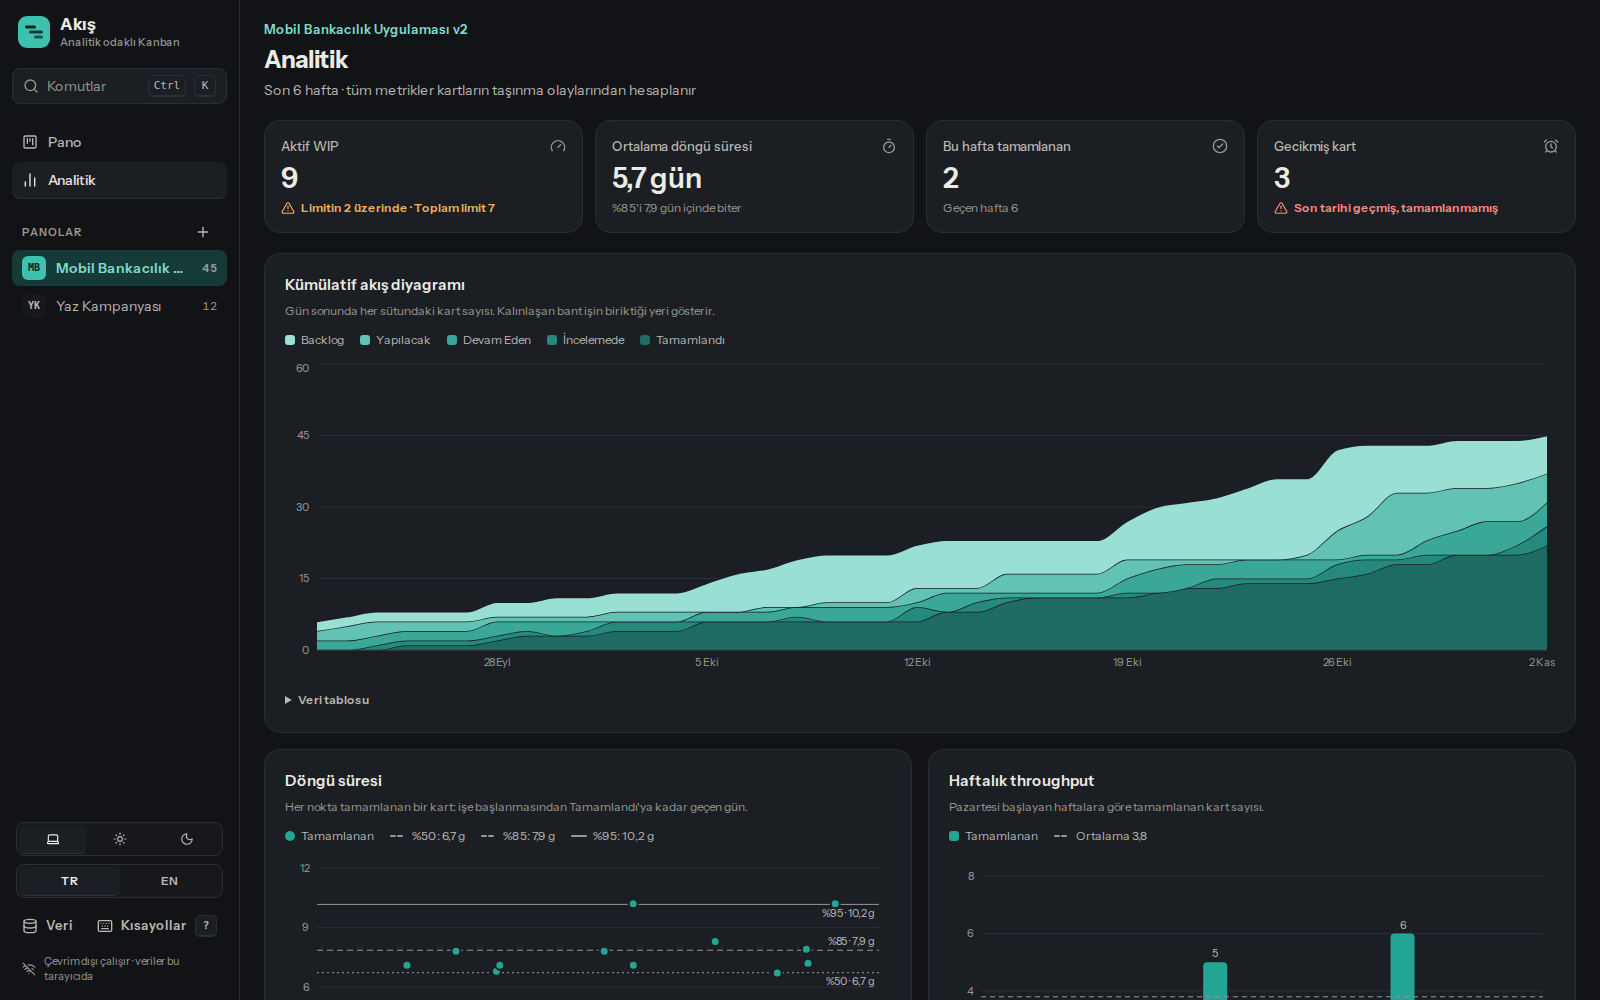
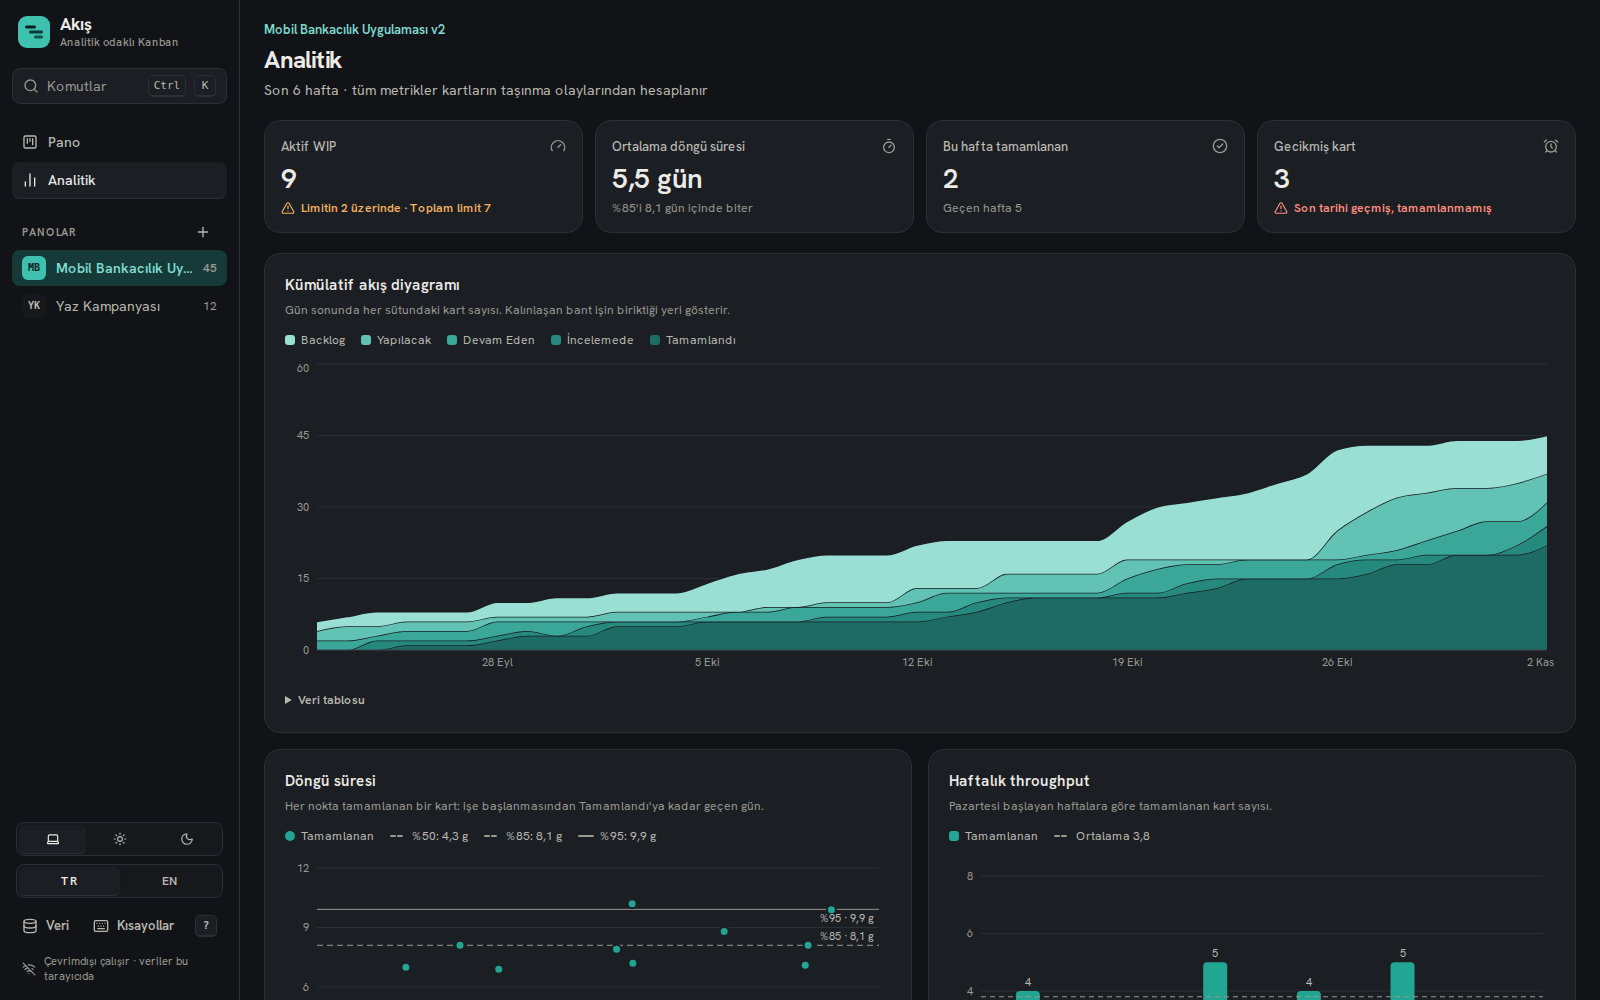
fix: restore word spacing by switching the UI font to Hanken Grotesk
Instrument Sans ships a 200/1000 em space glyph. At the 11-13px UI
sizes that is 2.2-2.6px, which Chrome rounds to 2px at DPR 1, and the
negative tracking on headings narrowed it further, so words visibly ran
together ("23Ekim2026tarihinde", "28Eyl", "Sprint 14·26 Eki").
Measured in the browser and confirmed in the font's hmtx table; the
cv11/ss01 features and the subsets were not the cause.

- Switch next/font to Hanken Grotesk (0.26 em space, latin + latin-ext
  for Turkish) and drop the Instrument-specific font features
- Soften heading tracking to -0.01em; no tracking on small text
- Make the sprint chip separator spacing explicit
- Render chart data tables only when they are opened
- Regenerate screenshots; refresh Lighthouse numbers in the README

diff --git a/src/components/board/board-view.tsx b/src/components/board/board-view.tsx
@@ -65,7 +65,7 @@ function BoardHeader({ board, filters, now }: { board: Board; filters: ReturnTyp
     <header className="flex flex-col gap-3 border-b border-line px-4 pt-4 pb-3 lg:px-5">
       <div className="flex flex-wrap items-center gap-x-3 gap-y-2">
         <div className="flex min-w-0 items-center gap-2">
-          <h1 className="truncate text-lg font-bold tracking-tight text-ink sm:text-xl" data-testid="board-title">
+          <h1 className="truncate text-lg font-bold tracking-[-0.01em] text-ink sm:text-xl" data-testid="board-title">
             {board.name}
           </h1>
           <BoardMenu board={board} />
@@ -79,8 +79,7 @@ function BoardHeader({ board, filters, now }: { board: Board; filters: ReturnTyp
             })}
             {daysLeft !== null ? (
               <span className="font-semibold text-ink">
-                ·{" "}
-                {daysLeft > 0 ? t("board.sprintLeft", { count: daysLeft }) : daysLeft === 0 ? t("board.sprintLastDay") : t("board.sprintEnded")}
+                {`· ${daysLeft > 0 ? t("board.sprintLeft", { count: daysLeft }) : daysLeft === 0 ? t("board.sprintLastDay") : t("board.sprintEnded")}`}
               </span>
             ) : null}
           </span>

diff --git a/src/components/analytics/charts.tsx b/src/components/analytics/charts.tsx
@@ -105,6 +105,7 @@ function ChartCard({
   children: ReactNode;
 }) {
   const { t } = useI18n();
+  const [tableOpen, setTableOpen] = useState(false);
   return (
     <figure className={`flex min-w-0 flex-col rounded-2xl border border-line bg-surface p-4 sm:p-5 ${className ?? ""}`} data-testid={testId}>
       <figcaption className="flex flex-col gap-1">
@@ -115,9 +116,10 @@ function ChartCard({
       <div className="mt-3 min-w-0" data-chart>
         <WhenVisible height={height}>{children}</WhenVisible>
       </div>
-      <details className="mt-2 text-xs">
+      <details className="mt-2 text-xs" onToggle={(event) => setTableOpen(event.currentTarget.open)}>
         <summary className="w-fit rounded py-1 font-semibold text-ink-2 hover:text-ink">{t("chart.table")}</summary>
-        <div className="scroll-thin mt-2 max-h-64 overflow-auto rounded-lg border border-line">{table}</div>
+        {/* Rendered on demand: the rows are only needed once the reader opens the table. */}
+        {tableOpen ? <div className="scroll-thin mt-2 max-h-64 overflow-auto rounded-lg border border-line">{table}</div> : null}
       </details>
     </figure>
   );

diff --git a/src/components/analytics/analytics-view.tsx b/src/components/analytics/analytics-view.tsx
@@ -45,7 +45,7 @@ function KpiTile({
           {icon}
         </span>
       </div>
-      <p className="text-[1.75rem] font-semibold leading-none tracking-tight text-ink" data-testid={`${testId}-value`}>
+      <p className="text-[1.75rem] font-semibold leading-none tracking-[-0.01em] text-ink" data-testid={`${testId}-value`}>
         {value}
       </p>
       <p
@@ -76,7 +76,7 @@ export function AnalyticsView() {
       <div className="mx-auto flex max-w-[90rem] flex-col gap-5 px-4 py-5 lg:px-6">
         <header className="flex flex-col gap-1">
           <p className="text-[0.8125rem] font-semibold text-accent-ink">{board?.name ?? " "}</p>
-          <h1 className="text-xl font-bold tracking-tight sm:text-2xl">{t("analytics.title")}</h1>
+          <h1 className="text-xl font-bold tracking-[-0.01em] sm:text-2xl">{t("analytics.title")}</h1>
           <p className="text-sm text-ink-2">{t("analytics.subtitle")}</p>
         </header>
 

diff --git a/src/app/layout.tsx b/src/app/layout.tsx
@@ -1,5 +1,5 @@
 import type { Metadata, Viewport } from "next";
-import { Instrument_Sans } from "next/font/google";
+import { Hanken_Grotesk } from "next/font/google";
 import { Suspense } from "react";
 import { AppShell } from "@/components/shell/app-shell";
 import { ShellSkeleton } from "@/components/shell/shell-skeleton";
@@ -7,7 +7,9 @@ import { tr } from "@/lib/i18n/messages";
 import { PREFERENCES_BOOT_SCRIPT } from "@/lib/preferences-boot";
 import "./globals.css";
 
-const uiFont = Instrument_Sans({
+// Hanken Grotesk: a normal-width space (0.26em) keeps small UI text readable;
+// latin-ext covers Turkish (ğ, ş, İ …).
+const uiFont = Hanken_Grotesk({
   subsets: ["latin", "latin-ext"],
   variable: "--font-ui",
   display: "swap",

diff --git a/src/components/board/card-tile.tsx b/src/components/board/card-tile.tsx
@@ -50,7 +50,7 @@ export function CardFace({ card, boardKey, labels, members, now, done, withSumma
   return (
     <div className="flex flex-col gap-2">
       <div className="flex items-center justify-between gap-2">
-        <span className="font-mono text-[0.6875rem] font-medium tracking-tight text-ink-3">{cardKey(boardKey, card.number)}</span>
+        <span className="font-mono text-[0.6875rem] font-medium text-ink-3">{cardKey(boardKey, card.number)}</span>
         <PriorityIcon priority={card.priority} className="size-3.5" />
       </div>
       <p className={`text-[0.8125rem] font-semibold leading-snug ${done ? "text-ink-2" : "text-ink"}`}>

diff --git a/src/components/ui/avatar.tsx b/src/components/ui/avatar.tsx
@@ -8,7 +8,7 @@ export function Avatar({ member, size = "sm", ring = false }: { member: Member; 
   return (
     <span
       title={member.name}
-      className={`inline-flex shrink-0 select-none items-center justify-center rounded-full font-bold tracking-tight ${SIZES[size]} ${
+      className={`inline-flex shrink-0 select-none items-center justify-center rounded-full font-bold ${SIZES[size]} ${
         ring ? "ring-2 ring-surface" : ""
       } bg-[hsl(var(--h)_48%_86%)] text-[hsl(var(--h)_62%_24%)] dark:bg-[hsl(var(--h)_32%_30%)] dark:text-[hsl(var(--h)_70%_88%)]`}
       style={{ "--h": member.hue } as CSSProperties}

diff --git a/src/components/shell/brand.tsx b/src/components/shell/brand.tsx
@@ -14,7 +14,7 @@ export function Brand({ tagline }: { tagline?: string }) {
     <span className="flex items-center gap-2.5">
       <BrandMark />
       <span className="flex flex-col leading-none">
-        <span className="text-[1.0625rem] font-bold tracking-tight text-ink">Akış</span>
+        <span className="text-[1.0625rem] font-bold text-ink">Akış</span>
         {tagline ? <span className="mt-1 text-[0.6875rem] font-medium text-ink-3">{tagline}</span> : null}
       </span>
     </span>

diff --git a/src/app/globals.css b/src/app/globals.css
@@ -153,7 +153,6 @@
     background: var(--canvas);
     color: var(--ink);
     font-family: var(--font-sans);
-    font-feature-settings: "cv11", "ss01";
   }
 
   :focus-visible {

diff --git a/README.md b/README.md
@@ -147,8 +147,10 @@ npm run screenshots  # docs/screenshots altındaki görselleri yeniden üretir
 
   | Sayfa | Performance | Accessibility | Best Practices | SEO |
   | --- | --- | --- | --- | --- |
-  | Pano | 91 | 100 | 100 | 100 |
+  | Pano | 90 | 100 | 100 | 100 |
   | Analitik | 89 | 100 | 100 | 100 |
+
+  Ölçümler makine boştayken alındı (Lighthouse benchmarkIndex ≈ 3200–3500). Makine yüklüyken simüle edilen TBT büyür ve Performance puanı düşer; diğer kategoriler değişmez.
 
 ## Bilinen sınırlamalar
 - Veri tarayıcıya özeldir. Cihazlar ve sekmeler arasında senkronizasyon yoktur (iki sekmede aynı anda düzenleme yapılırsa son yazan kazanır).
@@ -168,5 +170,5 @@ npm run screenshots  # docs/screenshots altındaki görselleri yeniden üretir
 - **Productivity:** a cmdk command palette, keyboard shortcuts (`n`, `/`, `?`), undo/redo for every change, and filters synced to the URL.
 - **Analytics:** a cumulative flow diagram, a cycle time scatter plot with 50/85/95th percentile lines, weekly throughput, a sprint burndown and KPI tiles. Everything is derived from timestamped card move events by pure, unit-tested functions.
 - **How it works:** every mutation goes through immer's `produceWithPatches`. The same patches power undo/redo and incremental IndexedDB writes (only the touched rows are written).
-- **Quality:** ESLint with 0 warnings, strict typecheck, 36 Vitest tests and 12 Playwright tests against the production build. Lighthouse mobile: Performance 91 / 89 (board / analytics), and 100 for Accessibility, Best Practices and SEO.
+- **Quality:** ESLint with 0 warnings, strict typecheck, 36 Vitest tests and 12 Playwright tests against the production build. Lighthouse mobile: Performance 90 / 89 (board / analytics), and 100 for Accessibility, Best Practices and SEO.
 - Turkish UI by default with an English toggle, plus light, dark and system themes. Licensed under MIT.
